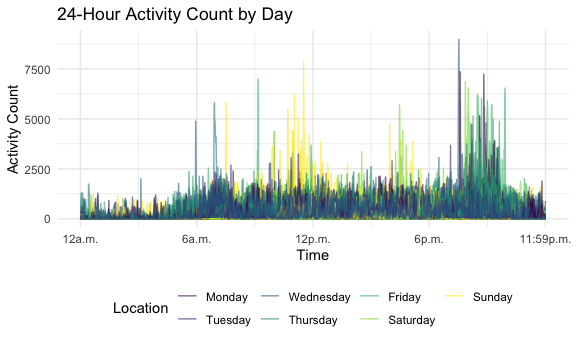
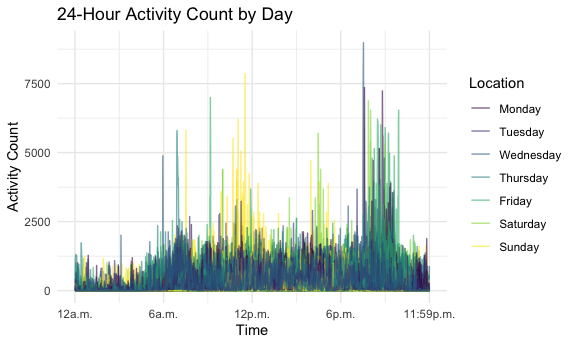
adjustment #2: problem 2.1 >=7 loacations

diff --git a/p8105_hw3_jh4323.md b/p8105_hw3_jh4323.md
@@ -12,7 +12,7 @@ knitr::opts_chunk$set(
   out.width = "90%"
 )
 
-theme_set(theme_minimal() + theme(legend.position = "bottom"))
+theme_set(theme_minimal())
 
 options(
   ggplot2.continuous.colour = "viridis",
@@ -77,8 +77,7 @@ aisle_df %>%
 
 ``` r
 instacart %>% 
-  filter(aisle %in% c("baking ingredients", "dog food care", "packaged vegetables fruits")) %>% 
-  group_by(aisle) %>% 
+  filter(aisle %in% c("baking ingredients", "dog food care", "packaged vegetables fruits")) %>%   group_by(aisle) %>% 
   count(product_name) %>% 
   mutate(
     rank = rank(desc(n))
@@ -153,50 +152,57 @@ brfss_clean <- brfss_smart2010 %>%
 ``` r
 states_observed_2002 = brfss_clean %>% 
   filter(year == 2002) %>%
-  select(c(1, 2,, 3)) %>% 
+  select(c(1, 2, 3)) %>% 
   distinct() %>% 
   count(locationabbr) %>% 
-  filter(n > 7)
+  filter(n >= 7)
 
 states_observed_2010 = brfss_clean %>% 
   filter(year == 2010) %>%
-  select(c(1, 2,, 3)) %>% 
+  select(c(1, 2, 3)) %>% 
   distinct() %>% 
   count(locationabbr) %>% 
-  filter(n > 7)
+  filter(n >= 7)
 
 states_observed_2002
 ```
 
-    ## # A tibble: 3 × 2
+    ## # A tibble: 6 × 2
     ##   locationabbr     n
     ##   <chr>        <int>
-    ## 1 MA               8
-    ## 2 NJ               8
-    ## 3 PA              10
+    ## 1 CT               7
+    ## 2 FL               7
+    ## 3 MA               8
+    ## 4 NC               7
+    ## 5 NJ               8
+    ## 6 PA              10
 
 ``` r
 states_observed_2010
 ```
 
-    ## # A tibble: 11 × 2
+    ## # A tibble: 14 × 2
     ##    locationabbr     n
     ##    <chr>        <int>
     ##  1 CA              12
-    ##  2 FL              41
-    ##  3 MA               9
-    ##  4 MD              12
-    ##  5 NC              12
-    ##  6 NE              10
-    ##  7 NJ              19
-    ##  8 NY               9
-    ##  9 OH               8
-    ## 10 TX              16
-    ## 11 WA              10
+    ##  2 CO               7
+    ##  3 FL              41
+    ##  4 MA               9
+    ##  5 MD              12
+    ##  6 NC              12
+    ##  7 NE              10
+    ##  8 NJ              19
+    ##  9 NY               9
+    ## 10 OH               8
+    ## 11 PA               7
+    ## 12 SC               7
+    ## 13 TX              16
+    ## 14 WA              10
 
-According to the result, **3** states **(MA NJ PA)** were observed at 7
-or more locations in 2002, while **11** states **(CA FL MA MD NC NE NJ
-NY OH TX WA)** were observed at 7 or more locations in 2010.
+According to the result, **6** states **(CT FL MA NC NJ PA)** were
+observed at 7 or more locations in 2002, while **14** states **(CA CO FL
+MA MD NC NE NJ NY OH PA SC TX WA)** were observed at 7 or more locations
+in 2010.
 
 -   2.2 Construct a dataset that is limited to Excellent responses, and
     contains, year, state, and a variable that averages the data\_value
@@ -281,7 +287,7 @@ acc_df = read_csv("./data/accel_data.csv")
 acc_clean = 
   acc_df %>% 
   pivot_longer(
-    activity.1 : activity.1440,
+    activity.1:activity.1440,
     names_to = "minute",
     names_prefix = "activity.",
     values_to = "activity_counts"
